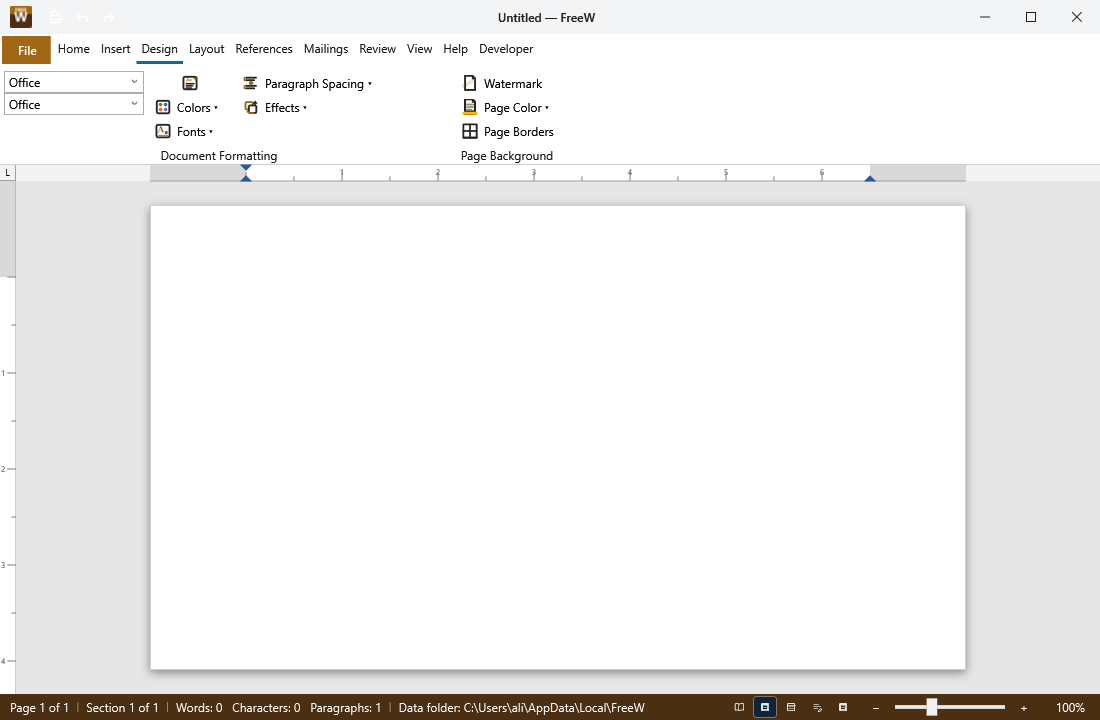
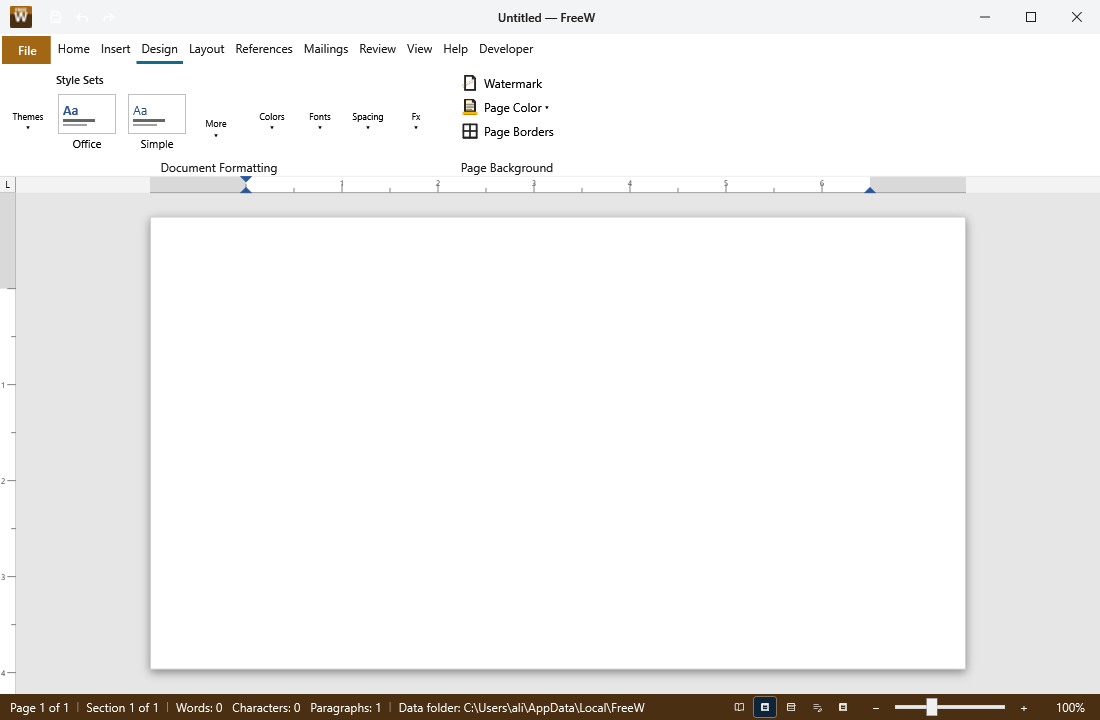
Restore FreeW compact Design style gallery

Changed region(s): [[0.0, 0.0917, 0.8964, 0.3056], [0.0, 0.3667, 0.0309, 0.3972], [0.0, 0.2444, 0.0309, 0.275]]

diff --git a/freew/FreeW.App.Host/Ribbon/ThemeGallery.cs b/freew/FreeW.App.Host/Ribbon/ThemeGallery.cs
@@ -2,6 +2,7 @@ using System.Windows;
 using System.Windows.Automation;
 using System.Windows.Controls;
 using System.Windows.Media;
+using Free.Shared.Ribbon;
 using FreeW.App.Host.Editing;
 using FreeW.App.Presentation;
 using FreeW.App.Presentation.ContextMenus;
@@ -20,8 +21,11 @@ namespace FreeW.App.Host;
 /// </summary>
 internal static class ThemeGallery
 {
-    public static FrameworkElement BuildDocumentFormatting(DocumentView editor)
+    public static FrameworkElement BuildDocumentFormatting(
+        DocumentView editor,
+        RibbonAdaptiveGroupState presentation = RibbonAdaptiveGroupState.Full)
     {
+        var compact = presentation is RibbonAdaptiveGroupState.SmallWithLabels or RibbonAdaptiveGroupState.IconOnly;
         var host = new StackPanel { Orientation = Orientation.Horizontal, VerticalAlignment = VerticalAlignment.Top };
         // Word keeps the small theme chooser separate from the primary Document
         // Formatting gallery. Style-set previews carry the visual weight of the
@@ -33,33 +37,56 @@ internal static class ThemeGallery
             theme => theme.Name,
             editor.PreviewTheme,
             editor.EndThemePreview,
-            editor.ApplyTheme));
-        host.Children.Add(BuildVisibleStyleSetGallery(editor));
+            editor.ApplyTheme,
+            compact: compact));
+        host.Children.Add(BuildVisibleStyleSetGallery(editor, compact ? 2 : 8, compact));
         host.Children.Add(BuildCatalogMenu(
             FreeWUiTextCatalog.Colors,
             DocumentTheme.Catalog,
             theme => theme.Name,
             editor.PreviewThemeColors,
             editor.EndThemePreview,
-            editor.ApplyThemeColors));
+            editor.ApplyThemeColors,
+            compact: compact));
         host.Children.Add(BuildCatalogMenu(
             FreeWUiTextCatalog.Fonts,
             DocumentFontSet.Catalog,
             fontSet => fontSet.Name,
             editor.PreviewFontSet,
             editor.EndFontSetPreview,
-            editor.ApplyFontSet));
-        host.Children.Add(BuildParagraphSpacingMenu(editor));
-        host.Children.Add(BuildEffectsMenu(editor));
+            editor.ApplyFontSet,
+            compact: compact));
+        host.Children.Add(compact
+            ? BuildCatalogMenu(
+                FreeWUiTextCatalog.ParagraphSpacing,
+                DocumentParagraphSpacingSet.Catalog,
+                spacingSet => spacingSet.Name,
+                editor.PreviewParagraphSpacingSet,
+                editor.EndParagraphSpacingSetPreview,
+                editor.ApplyParagraphSpacingSet,
+                compact: true)
+            : BuildParagraphSpacingMenu(editor));
+        host.Children.Add(compact
+            ? BuildCatalogMenu(
+                FreeWUiTextCatalog.Effects,
+                DocumentEffectSet.Catalog,
+                effectSet => effectSet.Name,
+                editor.PreviewEffectSet,
+                editor.EndEffectSetPreview,
+                editor.ApplyEffectSet,
+                compact: true)
+            : BuildEffectsMenu(editor));
         return host;
     }
 
-    private static FrameworkElement BuildVisibleStyleSetGallery(DocumentView editor)
+    private static FrameworkElement BuildVisibleStyleSetGallery(
+        DocumentView editor,
+        int visibleStyleCount,
+        bool compact)
     {
         // At the 1280px Office reference width Word presents eight style-set
         // cards before its More button; keep that density while preserving a
         // compact overflow for the remaining catalog.
-        const int visibleStyleCount = 8;
         var strip = new StackPanel { Orientation = Orientation.Horizontal, VerticalAlignment = VerticalAlignment.Center };
         foreach (var styleSet in DocumentStyleSet.Catalog.Take(visibleStyleCount))
             strip.Children.Add(BuildStyleSetSwatch(editor, styleSet));
@@ -70,7 +97,8 @@ internal static class ThemeGallery
             editor.PreviewStyleSet,
             editor.EndStyleSetPreview,
             editor.ApplyStyleSet,
-            automationName: UiText.Get("Design_StyleSets_MoreToolTip")));
+            automationName: UiText.Get("Design_StyleSets_MoreToolTip"),
+            compact: compact));
         return WithLabel(FreeWUiTextCatalog.StyleSets, strip);
     }
 
@@ -84,17 +112,18 @@ internal static class ThemeGallery
         Action<T> preview,
         Action endPreview,
         Action<T> apply,
-        string? automationName = null)
+        string? automationName = null,
+        bool compact = false)
     {
         var button = new Button
         {
             Content = new TextBlock
             {
-                Text = label + "\n▾",
-                FontSize = 10,
+                Text = (compact ? CompactCatalogLabel(label) : label) + "\n▾",
+                FontSize = compact ? 9 : 10,
                 TextAlignment = System.Windows.TextAlignment.Center,
             },
-            Width = 66,
+            Width = compact ? 44 : 66,
             Height = 50,
             Margin = new Thickness(2, 17, 2, 3),
             Background = Brushes.Transparent,
@@ -127,6 +156,13 @@ internal static class ThemeGallery
         };
         return button;
     }
+
+    private static string CompactCatalogLabel(string label) => label switch
+    {
+        var value when value == FreeWUiTextCatalog.ParagraphSpacing => "Spacing",
+        var value when value == FreeWUiTextCatalog.Effects => "Fx",
+        _ => label,
+    };
 
     /// <summary>Build the Themes gallery: a labelled horizontal strip of theme thumbnail swatches.</summary>
     public static FrameworkElement BuildThemes(DocumentView editor)

diff --git a/freew/FreeW.App.Host/MainWindow.cs b/freew/FreeW.App.Host/MainWindow.cs
@@ -3649,7 +3649,7 @@ public sealed partial class MainWindow : Window
             if (tab.Id == "design")
                 // Replace the rendered Document Formatting controls with the live-preview Word-style
                 // gallery/menu strip so backed commands do not appear twice beside their custom previews.
-                InjectGallery(content, "themes", () => ThemeGallery.BuildDocumentFormatting(_editor), removeKind: RemoveKind.All);
+                InjectGallery(content, "themes", state => ThemeGallery.BuildDocumentFormatting(_editor, state), removeKind: RemoveKind.All);
             if (tab.Id == "table-design")
                 // The gallery owns its dedicated Table Styles lane; Shading and Borders remain in
                 // the neighboring Table Style group instead of being removed with the placeholder.
@@ -3701,6 +3701,19 @@ public sealed partial class MainWindow : Window
         Func<FrameworkElement> createGallery,
         RemoveKind removeKind,
         Func<FrameworkElement>? extra = null)
+        => InjectGallery(
+            content,
+            groupId,
+            _ => createGallery(),
+            removeKind,
+            extra is null ? null : _ => extra());
+
+    private static void InjectGallery(
+        DependencyObject content,
+        string groupId,
+        Func<RibbonAdaptiveGroupState, FrameworkElement> createGallery,
+        RemoveKind removeKind,
+        Func<RibbonAdaptiveGroupState, FrameworkElement>? extra = null)
     {
         var groupHost = FindGroupHost(content, groupId);
         if (groupHost is null)
@@ -3709,7 +3722,7 @@ public sealed partial class MainWindow : Window
         // Compact group presentations are built lazily by RibbonGroupHost. A FrameworkElement can only
         // have one WPF parent, so each rebuilt presentation must receive its own gallery instance.
         var injectedLanes = new HashSet<Panel>();
-        void InjectInto(FrameworkElement presentation)
+        void InjectInto(FrameworkElement presentation, RibbonAdaptiveGroupState state)
         {
             if (presentation is not Grid grid)
                 return;
@@ -3735,17 +3748,17 @@ public sealed partial class MainWindow : Window
             }
 
             var host = new StackPanel { Orientation = Orientation.Horizontal, VerticalAlignment = VerticalAlignment.Top, Margin = new Thickness(2, 2, 2, 0) };
-            host.Children.Add(createGallery());
+            host.Children.Add(createGallery(state));
             if (extra is not null)
-                host.Children.Add(extra());
+                host.Children.Add(extra(state));
             lane.Children.Insert(0, host);
         }
 
-        InjectInto(groupHost.GroupContent);
-        groupHost.LayoutUpdated += (_, _) =>
+        InjectInto(groupHost.GroupContent, groupHost.LayoutState);
+        groupHost.PresentationChanged += (_, _) =>
         {
             if (groupHost.Content is FrameworkElement presentation)
-                InjectInto(presentation);
+                InjectInto(presentation, groupHost.LayoutState);
         };
     }
 

diff --git a/tests/Free.Shared.Ribbon.Wpf.Tests/RibbonWpfSplitButtonTests.cs b/tests/Free.Shared.Ribbon.Wpf.Tests/RibbonWpfSplitButtonTests.cs
@@ -113,6 +113,29 @@ public sealed class RibbonWpfSplitButtonTests
     }
 
     [Fact]
+    public void GroupHost_RaisesPresentationChangedWhenMaterializingCompactContent()
+    {
+        StaTestRunner.Run(() =>
+        {
+            var registry = new RibbonCommandRegistry();
+            registry.Register("paste", new RecordingCommand());
+            var root = BuildRibbon(registry);
+            var group = Descendants(root).OfType<RibbonGroupHost>().Single();
+            var notifications = 0;
+
+            group.PresentationChanged += (_, _) => notifications++;
+            group.LayoutState = RibbonAdaptiveGroupState.SmallWithLabels;
+
+            notifications.Should().Be(1);
+            group.Content.Should().NotBeSameAs(group.GroupContent,
+                "the compact presentation is a newly materialized visual tree");
+            group.LayoutState = RibbonAdaptiveGroupState.SmallWithLabels;
+            notifications.Should().Be(1, "reassigning the active presentation does not rebuild its visual tree");
+            root.Should().NotBeNull();
+        });
+    }
+
+    [Fact]
     public void CollapsedGroup_UsesFixedSingleLineEllipsisCaption()
     {
         StaTestRunner.Run(() =>

diff --git a/freew/FreeW.App.Host.Tests/ThemeGalleryTests.cs b/freew/FreeW.App.Host.Tests/ThemeGalleryTests.cs
@@ -1,6 +1,7 @@
 using System.Windows;
 using System.Windows.Automation;
 using System.Windows.Controls;
+using Free.Shared.Ribbon;
 using FreeW.App.Host.Editing;
 
 namespace FreeW.App.Host.Tests;
@@ -45,6 +46,19 @@ public sealed class ThemeGalleryTests
         Captions(formatting).Should().Contain([
             "Style Sets",
             "Office", "Simple", "Elegant", "Formal", "Lines (Simple)", "Minimalist", "Shadow", "Shaded"]);
+        Descendants<Button>(formatting)
+            .Select(AutomationProperties.GetName)
+            .Should().Contain(["Themes", "More Style Sets", "Colors", "Fonts", "Paragraph Spacing", "Effects"]);
+    }
+
+    [StaFact]
+    public void Compact_document_formatting_keeps_preview_cards_and_all_catalog_routes()
+    {
+        var formatting = ThemeGallery.BuildDocumentFormatting(
+            new DocumentView(),
+            RibbonAdaptiveGroupState.SmallWithLabels);
+
+        Captions(formatting).Should().Contain(["Style Sets", "Office", "Simple"]);
         Descendants<Button>(formatting)
             .Select(AutomationProperties.GetName)
             .Should().Contain(["Themes", "More Style Sets", "Colors", "Fonts", "Paragraph Spacing", "Effects"]);

diff --git a/shared/Free.Shared.Ribbon.Wpf/RibbonAdaptivePanel.cs b/shared/Free.Shared.Ribbon.Wpf/RibbonAdaptivePanel.cs
@@ -26,6 +26,12 @@ public sealed class RibbonGroupHost : ContentControl
     /// can identify the host without reaching into its private group model.</summary>
     public string GroupName => _group.Header;
 
+    /// <summary>
+    /// Raised after the host swaps between its full, compact, or collapsed presentation.
+    /// App-specific gallery surfaces use this to populate each newly materialized compact tree.
+    /// </summary>
+    public event EventHandler? PresentationChanged;
+
     /// <summary>The full (expanded) group grid this host renders. Always the same instance regardless
     /// of whether the host is currently showing a compact or collapsed presentation, so discovery can
     /// find the group's authored full surface even while responsive layout is active.</summary>
@@ -101,6 +107,7 @@ public sealed class RibbonGroupHost : ContentControl
             Content = value == RibbonAdaptiveGroupState.Collapsed
                 ? (_collapsedButton ??= BuildCollapsedButton())
                 : GetPresentation(value);
+            PresentationChanged?.Invoke(this, EventArgs.Empty);
         }
     }
 
